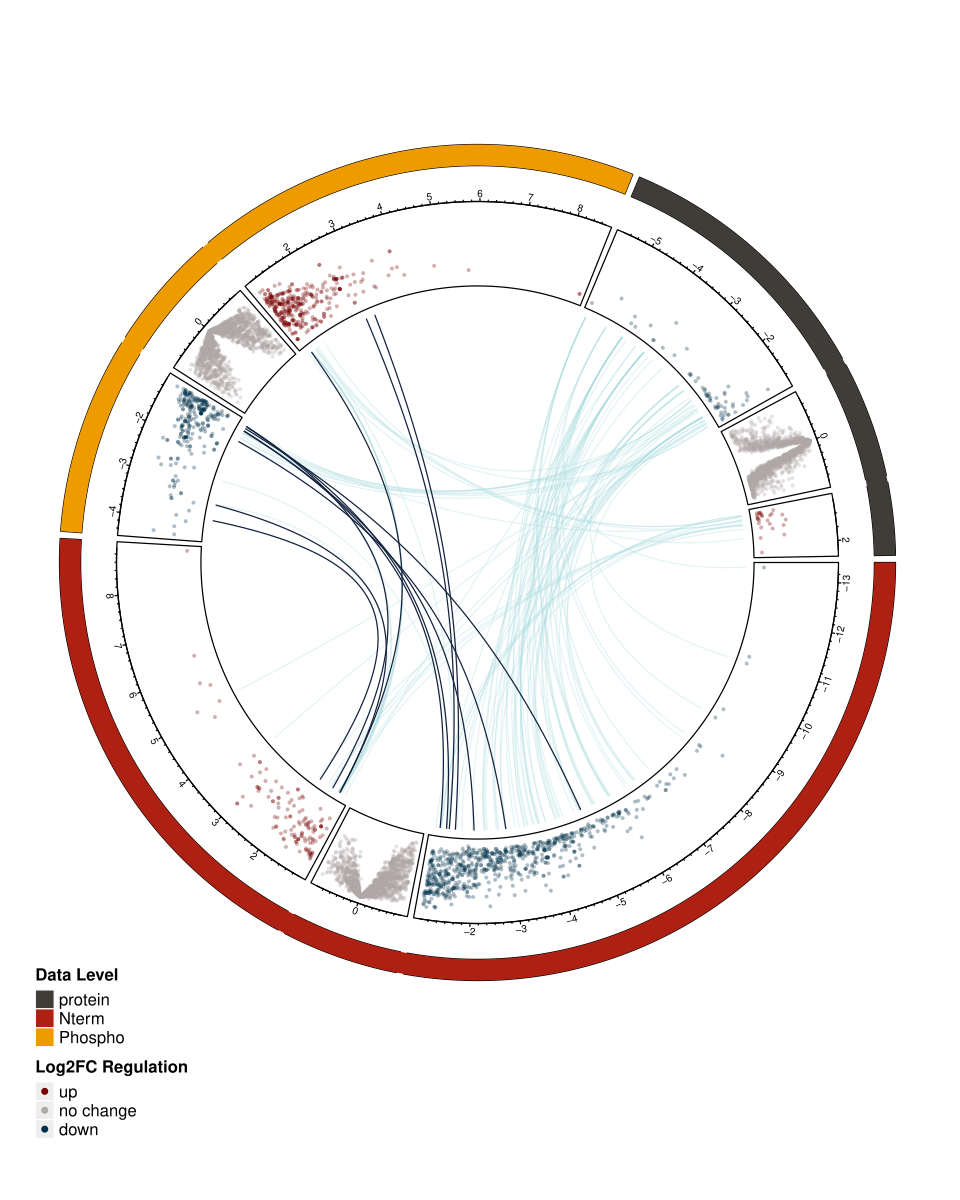
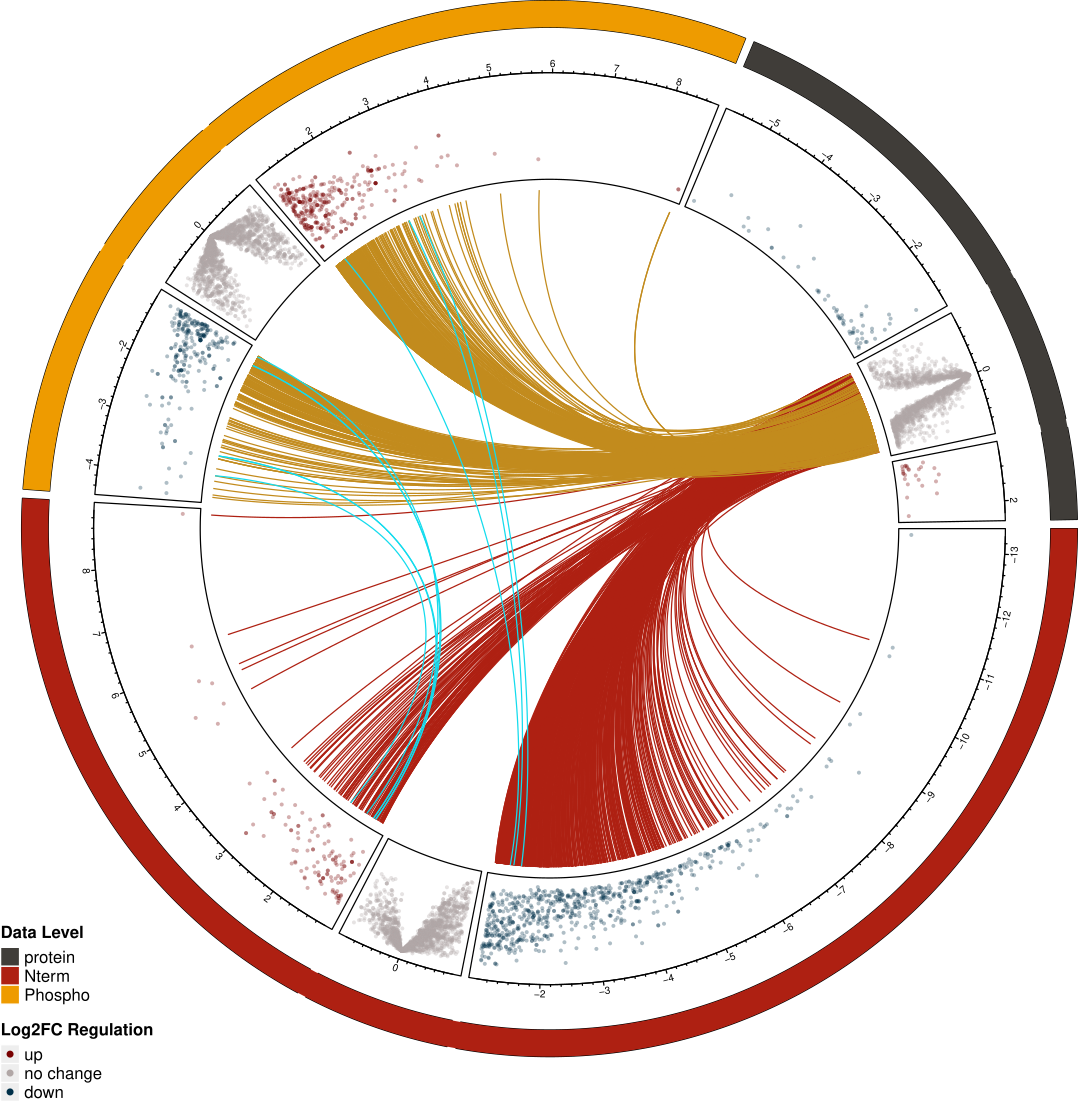
tutorial updates and bug fixes

diff --git a/app/mds/summaryVisuals.md b/app/mds/summaryVisuals.md
@@ -1,12 +1,12 @@
 [Add Cover Figure (landscape format)]
 
-The last step in the workflow entails visualizing quantitative differences between samples and conditions, first at the dataset level using dimensionality reduction and clustering approaches and then at the level of individual proteins, PTMs, termini and their relationships.
+The last step in the workflow entails visualizing quantitative differences between samples and conditions, first at the dataset level using dimensionality reduction and clustering approaches, and then at the level of individual proteins, PTMs, termini and their relationships.
 
 ### 1. Dimensional Reduction
-Dimensional reduction is a frequently used data analysis step for high-dimensional data. Dimensional reduction can be done to all features or for a subset to denoise and simplify the high-dimensional data. SQuAPP allows for the subset selection in the dimensional reduction to take all features if no statistical testing is done prior. More subset options will be available depending on the statistical testing if statistical testing has been completed for the selected data level. (e.g. all significant, up, or down-regulated subsets becomes available)
+Dimensional reduction is a frequently used data analysis step for high-dimensional data **(1)**. Dimensional reduction can be done to all features or for a subset to denoise and simplify the high-dimensional data. `SQuAPP can perform dimensionality reduction on all features in datasets or a selected subset of features. More subset options will be available in the statistical testing that has been completed for the selected data level. (e.g. in the provided example dataset, this could be all significant, only up, or only down-regulated subsets for a comparison between Normal and B-ALL data).
 
 
-SQuAPP offers three commonly used methods to reduce dimensions in high-dimensional data:
+`SQuAPP` offers three commonly used methods to reduce dimensions in high-dimensional data:
 
 - `PCA`: “principal component analysis” implemented using `stats::prcomp()` function.
 - `t-SNE`: “t-distributed stochastic neighbour embedding” is implemented using `Rtsne::Rtsne()` function.
@@ -14,13 +14,13 @@ SQuAPP offers three commonly used methods to reduce dimensions in high-dimension
 - `UMAP`:  “Uniform manifold approximation and projection” is implemented using `umap::umap()` function.
 
 
-SQuAPP produces a customizable scatter plot with two dimensions based on the method used. You can include a colour and/or a shape variable from the metadata in the main configuration box. Aside from the colour and shape, further customization of these plots can be done by opening the plot settings menu located on the top left corner of the plot. In the plot settings menu, you can change more aspects of the plot for downloading for reference.
+`SQuAPP` produces a customizable scatter plot with two dimensions based on the method used. You can include a colour and/or a shape variable from the metadata in the main configuration box. Aside from the colour and shape, further customization of these plots can be done by opening the plot settings menu located on the top left corner of the plot. In the plot settings menu, you can change more aspects of the plot for downloading or for reference.
 
 <p align="center">
   <img src="../../png/034_DimensionalReductionMethods.png" width="80%">
 </p>
 
-SQuAPP also provides the reduced table in the bottom box. The reduced table results from a dimensional reduction method merged with metadata to create a reference for people who would like to access the dataset used to produce the data above.
+`SQuAPP` also provides the reduced table in the bottom box. The reduced table results from a dimensional reduction method merged with metadata to create a reference for users who would like to access the dataset used to produce the reduced plot (see the plot in the figure below).
 
 <p align="center">
   <img src="../../png/035_DimensionalReductionDone.png" width="80%">
@@ -29,11 +29,11 @@ SQuAPP also provides the reduced table in the bottom box. The reduced table resu
 ---
 
 ### 2. Clustering
-Because clustering is a subjective statistical analysis, different clustering methods can be appropriate for different datasets. This section provides clustering as unsupervised learning, implementing clustering on all or a subset of features in the selected data level. SQuAPP allows the subset selection in the clustering to take all features if no statistical testing is done prior. More subset options will be available depending on the statistical testing if statistical testing has been completed for the selected data level. (e.g. all significant, up, or down-regulated subsets become available).
+Since clustering is a subjective statistical analysis, different clustering methods can be appropriate for different datasets. This section provides clustering as unsupervised learning, implementing clustering on all or a subset of features in the selected data level. `SQuAPP` allows the subset selection in the clustering to take all features if no statistical testing is done prior. More subset options will be available depending on the statistical tests completed for the selected data level. (e.g. all significant, up, or down-regulated subsets become available).
 
 > **Note:** Rows with NA values are not handled in this section, and they are implicitly dropped.
 
-SQuAPP offers four distinct clustering methods implemented from various packages in R:
+`SQuAPP` offers four distinct clustering methods implemented from various packages in R:
 
 - `Hierarchical Clustering`: *hierarchical clustering is implemented from `factoextra::hcut()`*
 - `K-means Clustering`: *k-means clustering is implemented from `stats::kmeans()`*
@@ -44,25 +44,25 @@ SQuAPP offers four distinct clustering methods implemented from various packages
   <img src="../../png/036_ClusteringInitial.png" width="80%">
 </p>
 
-SQuAPP provides two-step to get clustering results, running a preview and running actually clustering with decided parameters. In the first step, SQuAPP implements three cluster testing visualizations to select a number of clusters for clustering analysis. SQuAPP also gives an option to choose the maximum number of clusters to test in the preview step. The tests implemented to find the optimal number of clusters are implemented using the `factoextra::nbclust()` function:
+`SQuAPP` requires two steps to get clustering results - running a preview of the clustering and then the actual clustering with selected parameters. In the first step, `SQuAPP` implements three cluster testing visualizations to guide the user in determining the optimum number of clusters for the analysis. `SQuAPP` also gives an option to choose the maximum number of clusters to test in the preview step. The tests implemented to find the optimal number of clusters are implemented using the `factoextra::nbclust()` function:
 
 
-- `Average Silhouette`: Calculates average silhouette Si [REF] from silhouette plots for each tested cluster number and plots it. *Measures the quality of a clustering.* **Higher the average silhouette width is better.**
-- `Within Sum of Squares`: (aka. Elbow Method) Calculates total sum of squares [REF] for each tested cluster number and plots it. *Measures the compactness of the clustering*. **The smaller is better.**
-- `Gap Statistics`: Calculates the gap statistics [REF] for each tested cluster. *Compares the total within intra-cluster variation.* **Large gap statistic is better.**
+- `Average Silhouette`: Calculates average silhouette Si **(2)** from silhouette plots for each tested cluster number and plots it. *Measures the clustering quality.* **Higher the average silhouette width is better.**
+- `Within Sum of Squares`: (aka. Elbow Method) Calculates the total sum of squares for each tested cluster number and plots it. *Measures the compactness of the clustering*. **The smaller is better. **
+- `Gap Statistics`: Calculates the gap statistics **(3)** for each tested cluster. *Compares the total within intra-cluster variation.* *Large gap statistic is better.*
 
 <p align="center">
   <img src="../../png/037_ClusteringTestMethods.png" width="80%">
 </p>
 
-When the clustering performance tests are created and reviewed by the user, a slider selector will become available to select for number of cluster to be used in clustering analysis. SQuAPP also provides further configuration of the clustering methods to be used with different methods for more advanced control over the clustering analysis. When the number of clusters selection and further configuration is completed you can click “Run Clustering” button to run the clustering to create result plots:
+When the user creates and reviews the clustering performance tests, a slider selector will become available to select a number of clusters used in clustering analysis. `SQuAPP` also provides further configuration of the clustering approaches for the different methods to enable more advanced selections for each clustering analysis. When the number of clusters selection and further configuration is completed, click the “Run Clustering” button to run the clustering and create result plots:
 
 -  `Cluster PCA`: plots the clustering on a two dimensional PCA, using `factoextra::fviz_cluster()` function
 -  `Cluster Silhouette`: plots silhouette of the created cluster using `factoextra::fviz_silhouette()` function
--  `Cluster Dendogram`: plots a dendogram using `factoextra::fviz_dend()` function
+-  `Cluster Dendogram`: plots a dendrogram using `factoextra::fviz_dend()` function
 	- **Only available when using hierarchical clustering and hierarchical k-means clustering**
 -  `Cluster Membership Plot`: plots membership values from fuzzy clustering on a matrix.
-  - **Only available when using fuzzy clustering**
+	- **Only available when using fuzzy clustering**
 
   <p align="center">
     <img src="../../png/038_ClusteringDone.png" width="80%">
@@ -71,9 +71,9 @@ When the clustering performance tests are created and reviewed by the user, a sl
 ---
 
 ### 3. Feature Comparison
-SQuAPP gives an option to compare a small subset of features directly with their intensities in a single intensity plot and a correlation matrix plot if desired. SQuAPP accepts three methods to select features for this section; manual input of features separated by a comma, uploading a file with a set of features separated by a new line, and finally directly selecting from a data table that can be created in the feature comparison section.
+`SQuAPP` gives an option to compare a small subset of features directly with their intensities in a single intensity plot and a correlation matrix plot if desired. `SQuAPP` accepts three methods to select features for this section; manual input of features separated by a comma, uploading a file with a set of features separated by a new line, and finally directly selecting from a data table that can be created in the feature comparison section.
 
-Suppose the “Select from Statistical Results” option is selected. In that case, SQuAPP allows a data table created for selecting features directly from the table when selecting SQuAPP prompts for choosing a subset view based on all features or significant only features if the data’s statistical testing step is run prior.
+Suppose the “Select from Statistical Results” option is selected. In this case, `SQuAPP` allows a data table created for selecting features directly from the table when selecting `SQuAPP` prompts for choosing a subset view based on all features or significant only features if the data’s statistical testing step is run prior.
 
 When the “Preview Features” button is clicked after the finished selection will give a preview of the data based on the selection. The preview data table for selected features will be based on the statistical result table if the statistical testing has been done for the data level prior. If the statistical testing for the data is not run, the preview data table will bring up the quantitative data table for the selected data level.
 
@@ -82,13 +82,13 @@ When the “Preview Features” button is clicked after the finished selection w
   <img src="../../png/039_FeatureComparisonPreview.png" width="80%">
 </p>
 
-To plot the intensity plot and correlation matrix, at least one row in the preview data needs to be selected. After the rows *up to twelve* are selected, and the configuration of the plot box is completed, you can click on the “Plot Comparisons” button to create comparison visualizations. If changes are done on the “Plot Axis Configuration,” you can update the plot by clicking the “Plot Comparisons” button to apply changes to the plot. If you want to update the feature selection, you must re-create the “Preview Selected Features” table to re-select features to plot.
+To generate the intensity plot and correlation matrix, at least one row in the preview data needs to be selected. After the rows *up to twelve* are selected and the configuration of the plot box is completed, click on the “Plot Comparisons” button to create comparison visualizations. If changes are done on the “Plot Axis Configuration,” you can update the plot by clicking the “Plot Comparisons” button to apply changes to the plot. If you want to update the feature selection, you must re-create the “Preview Selected Features” table to re-select features to plot.
 
 <p align="center">
   <img src="../../png/040_FeatureComparisonIntensityPlot.png" width="80%">
 </p>
 
-The “Plot Axis Configuration” box provides options to add different variables to the intensity plot, and they can be selected as “colour,” “shape,” or “size.” The “Plot Axis Configuration” box also provides simple options for the correlation matrix plot, such as the selection correlation method and if you want to plot a simple or detailed correlation matrix.
+The “Plot Axis Configuration” box provides options to add different variables to the intensity plot, and they can be selected as “colour,” “shape,” or “size.” The “Plot Axis Configuration” box also provides simple options for the correlation matrix plot, such as selecting a correlation method and if you want to plot a simple or detailed correlation matrix.
 
 <p align="center">
   <img src="../../png/041_FeatureComparisonCorrelationPlot.png" width="80%">
@@ -97,15 +97,15 @@ The “Plot Axis Configuration” box provides options to add different variable
 ---
 
 ### 4. Protein Domain
-> **For this section requires at least one of the peptide, termini, or ptm data levels to be present.**
+> **This section requires at least one of the peptide, termini, or ptm datasets to be uploaded and selected in the data selection input.**
 
-This section enables an in-depth inspection of individual features on their parent protein. SQuAPP’s hybrid protein domain plot brings the protein domain visualization produced by the `drawProteins` package [REF] and intensity-based lollipop plot of matching peptide, termini, and ptm level data into a single plot.
+This section enables an in-depth inspection of individual features on a specific protein. `SQuAPP`’s hybrid protein domain plot brings the protein domain visualization produced by the `drawProteins` package **(4)** and intensity-based lollipop plot of matching peptide, termini, and ptm level data into a single plot.
 
 <p align="center">
   <img src="../../png/042_ProteinDomainPlot.png" width="80%">
 </p>
 
-To set up the SQuAPP’s hybrid plot you need to select which levels of data to include and a method to select a protein to the plot. A protein for plotting can be selected from a preview table as done in the “Feature Comparisons” section or manually put into a single UniProt protein accession identifier.    
+To set up `SQuAPP`’s hybrid plot, you need to select which datasets to include and a method to choose a protein to the plot. To select a protein to visualize, click to highlight the protein entry in the preview table or manually provide the protein’s single Uniprot protein accession identifier.    
 
 <p align="center">
   <img src="../../png/043_ProteinDomainExample.png" width="80%">
@@ -116,22 +116,47 @@ To set up the SQuAPP’s hybrid plot you need to select which levels of data to 
 ### 5. Circular Network Summary
 > **This section requires at least 2 data levels to be present. Statistical testing on datasets to include should be conducted in the statistical testing section.**
 
-SQuAPP’s circular network summary plot provides a multi-level data summary view and is implemented using the `circlize` package [REF.]
+`SQuAPP`’s circular network summary plot provides a multi-level data summary view and is implemented using the `circlize` package **(5)**.
 
 <p align="center">
   <img src="../../png/044_CircularNetworkCompletePlot.png" width="80%">
 </p>
 
-SQuAPP creates a circular network summary plot in two steps. First, SQuAPP creates concatenated data from selected levels of data to include after the “Combine Datasets” button is clicked. In the concatenated data, features that do not match at least one other data level are dropped. **Processing the concatenated data can take up to 5seconds depending on the size of data.**
+`SQuAPP` creates a circular network summary plot in two steps. First, when the “Combine Datasets” button is clicked, `SQuAPP` creates and includes concatenated data from the selected data levels. While creating the concatenated data, SQuAPP applies a simple pre-filtering to eliminate features that don’t make a connection. For instance, a feature from termini data needs to be matched to a protein, peptide, or ptm within the five amino-acid range to establish a connection. If the feature doesn’t connect to any other datasets in any way, then that feature is dropped in the pre-filtering when making the concatenated data. **Processing the concatenated data can take up to 5seconds depending on the size of data.**
 
 <p align="center">
   <img src="../../png/045_CircularNetworksInitial.png" width="80%">
 </p>
 
-After the concatenated data is processed and created, the “Setup Filtering for Connections” box will become visible, the second step in creating a circular network summary plot. The filtration step essentially filters the connections that SQuAPP will create.  If the filtration switches for data levels with statistical results are switched off, all available data in the concatenated data will be kept. If you wish to filter individual levels you need to switch to filter. There are two options for applying filtering to a data-based log fold change threshold or adjusted p-value threshold set in the statistical results. When the selection for filtering is made, click the “Plot Circular Network” for creating the plot with all connections defaulting to thin gray lines.
+The second step involves creating a circular network summary plot. After the concatenated data is processed and created, the “Setup Filtering for Connections” box will become visible. The filtration step essentially filters the connections that `SQuAPP` will show on the circular plot. There are two options to create the filtering to create the circular plot. The first option is to select a pre-defined filtering scenario from the drop-down menu. The pre-defined scenarios are a quick way to set up the filtering for rapid testing of interesting scenarios.
+
+- `Reverse regulated modifications on unchanged protein`: Only selecting connections that start with unchanged proteins to regulated termini or ptm as well as connections that begin with up-regulated termini to down-regulated ptm or wise versa.
+- `Consistent up-regulation of all data levels`: Only selecting connections that begin with up-regulated features to other up-regulated features.
+- `Consistent down-regulation of all data levels`: Only selecting connections that begin with down-regulated features to other down-regulated features.
+- `Reverse regulated peptide and protein`: Only selecting connections that have reverse regulated protein to peptide connection and regulated peptide to regulated termini, ptm connections.
+
+> *We will be adding more pre-defined filtering scenarios in the future.*
+
+The second option, custom filtration, can be accessed when the “Do you want custom filtering?” switch is turned on.  If the filtration switches for data levels with statistical results are switched off, all available data in the concatenated data will be kept. If you wish to filter individual levels, you need to switch to filter. Filtering can be applied to data based on the log fold change or adjusted p-value threshold set in the statistical analysis step. After the selection for filtering is complete, clicking on the “Plot Circular Network” will generate a plot with all connections defaulting to thin gray lines.
 
 <p align="center">
   <img src="../../png/046_CircularNetworksDefaultPlot.png" width="80%">
 </p>
 
-To highlight some of the connection lines from the circular network summary plot, you must select rows from the table created in the “Combined Connections Data Summary” tab. When you select entries from the table, you can click on the “Plot Circular Network” button to re-plot the initial plot with your selected entries added as thicker dark connections.
+You can switch on the “Do you want to assign colours to connections?” option, If you would like to assign colours to connection groups (e.g. protein-peptide, protein-termini, etc.) Each group can be changed in the colour picker. If you want to change the colour, you need to update the plot by clicking “Plot Circular Plot.”
+
+<p align="center">
+  <img src="../../png/047_CircularNetworksColored.png" width="80%">
+</p>
+
+Apart from assigning colours to a group of connections, SQuAPP also allows you to highlight some of the connection lines from the circular network summary plot. You must select rows from the table created in the “Combined Connections Data Summary” tab to highlight several connections. When you select entries from the table, you can click on the “Plot Circular Network” button to re-plot the initial plot with your selected entries added as thicker dark connections.
+
+---
+
+**Bibliography**
+
+1. 	Ivosev G, Burton L, Bonner R. Dimensionality reduction and visualization in principal component analysis. Anal Chem. 2008 Jul 1;80(13):4933–44.
+2. 	Rousseeuw PJ. Silhouettes: A graphical aid to the interpretation and validation of cluster analysis. Journal of Computational and Applied Mathematics. 1987 Nov;20:53–65.
+3. 	Tibshirani R, Walther G, Hastie T. Estimating the number of clusters in a data set via the gap statistic. J Royal Statistical Soc B. 2001 May;63(2):411–23.
+4. 	Brennan P. drawProteins: a Bioconductor/R package for reproducible and programmatic generation of protein schematics. [version 1; peer review: 2 approved]. F1000Res. 2018 Jul 18;7:1105.
+5. 	Gu Z, Gu L, Eils R, Schlesner M, Brors B. circlize Implements and enhances circular visualization in R. Bioinformatics. 2014 Oct;30(19):2811–2.

diff --git a/app/mds/statInfer.md b/app/mds/statInfer.md
@@ -1,41 +1,38 @@
 [Add Cover Figure (landscape format)]
 
-Once the data has been processed, statistically significant differences between conditions can be determined. This set of proteins, termini, or PTM sites, can then be used to gain deeper insights in the next step of summary visualizations.
+Once the data has been processed, statistically significant differences between conditions can be determined. The next step of summary visualizations is useful to gain deeper insights on the set(s) of proteins, termini, or PTM sites within and across experimental conditions.
 
 ### 1. Statistical Testing
-SQuAPP employs the linear model from the `limma` package [REF] for statistical testing since it is one of the most flexible and popular methods employed in the field of proteomics. (*However, more methods are under development to provide different flavours for users who want to use other methods.*) As of version 0.25, the reported p-values adjusted according to the Bonferroni-Hochberg method for both tests, with more options are going to be added soon. SQuAPP adds *“weighting”* and *“blocking”* options to provide additional functionality when employing statistical testing on your data.
+`SQuAPP` employs the linear model from the `limma` package **(1)** for statistical testing, one of the most flexible and popular methods employed in proteomics. (*However, more methods are under development to provide different options for users.*) As of version 0.25, the reported p-values are adjusted according to the Bonferroni-Hochberg (FDR) method as default. More multiple testing corrections methods are available through the `p.adjust()` function from the `stats` package, and they can be selected from the dropdown menu.  
 
-- **Blocking**: Blocking is a technique for dealing with nuisance factors that have some effect on the response but are of no interest. Hence the influence on the response variable needs to be minimized or ruled out. Currently, the blocking factor can be a 2-level factor only.
-- **Weighting**: SQuAPP introduced a function that allows the user to put different weights on original/imputed values in the testing differential abundance. This is particularly relevant in scenarios where a PTM or terminus is genuinely absent in one condition but not consistently detected in the other condition. By giving a low weight to imputed values, the measured values become the determining factor when calculating the mean and variance in conditions where many but not all samples have a measurement. At the same time, in conditions where a feature has not been measured, imputed values dominate regardless of their low weight.
+`SQuAPP` implements the weighting option, originally implemented in limma to control quality weights in the microarray data analysis **(2)**. `SQuAPP` can place different weights on original/imputed values when the weighting option is selected with testing for differential abundance. This is particularly relevant in scenarios where a PTM or terminus is genuinely absent in one condition but not consistently detected in the other condition. By giving a low weight to imputed values, the measured values become the determining factor when calculating the mean and variance in conditions where many but not all samples have a measurement. At the same time, in conditions where a feature has not been measured, imputed values dominate regardless of their low weight.
 
 <p align="center">
   <img src="../../png/029_StatisticalTestingInitial.png" width="80%">
 </p>
 
-After selecting the data level for statistical testing, you can select a grouping factor to apply the linear model with unique groups. SQuAPP provides sliders to select adjusted p-value and fold-change thresholds in the testing. If you would like to use weighting or blocking you can switch on those options to access their specific options. When the weighting option is activated, SQuAPP asks you to select a weighting number to assign so the effect of the imputed values is multiplied by that weight.  When the blocking option is activated, SQuAPP asks you to select a grouping factor and only 2 groups to apply in the statistical testing. The blocking option replaces the traditional volcano plot with a block volcano plot, using log2 fold changes of blocks one and two on the x and y axis.
+After selecting the data level for statistical testing, you can select a grouping factor to apply the linear model with unique groups. `SQuAPP` provides sliders to select adjusted p-value and fold-change thresholds. Choose either weighting or blocking options to access use and access the preferences for either selection. If the weighting option is activated, `SQuAPP` asks you to select a weighting number to assign, so the effect of the imputed values is multiplied by that weight.
 
-<p align="center">
-  <img src="../../png/030_StatisticalTestingBlockingVolcano.png" width="80%">
-</p>
-
-When all the configuration for testing is done you can click the “Run Statistical Analysis” button to run the analysis to produce plots and result datasets. The visualizations are on the top box and the data tables are on the bottom box. All the plots and data tables can be downloaded individually for reference.
+When all the configuration for testing is done, you can click the “Run Statistical Analysis” button to initiate the analysis, produce plots and result datasets. The visualizations are on the top box, and the data tables are on the bottom. All the plots and data tables can be downloaded individually for reference.
 
 <p align="center">
   <img src="../../png/031_StatisticalTestingDone.png" width="80%">
 </p>
 
-SQuAPP automatically saves and attaches the statistical result to the selected data level. If you would like to change or update your statistical test changing the parameters and running the test by clicking the button will update the data.
+`SQuAPP` automatically saves and attaches the statistical result table to the original data level for the analysis. If there is a need to change or update your statistical test with a different configuration, regardless of changes in this section or previous sections, re-running the test by clicking the button will update the statistical result data.
 
 ---
 
 ### 2. Enrichment Analysis
-Another essential step in a data analysis workflow is to create a list of interesting biological matches from the proteomic data. SQuAPP employs the help of the `gprofiler2` package, which is an API for the web-based `g:Profiler` tool [REF]. (*However, more methods using different tools are under development to provide additional flavours.*)
+Another essential step in a data analysis workflow is to create a list of interesting biological matches from the proteomic data. `SQuAPP` employs the help of the `gprofiler2` package, which is an API for the web-based `g:Profiler` tool **(3)**.
+
+> (*Additional methods using other Enrichment Analysis software are under development and provide users with more alternatives.*)
 
 <p align="center">
   <img src="../../png/032_EnrichmentAnalysisInitial.png" width="80%">
 </p>
 
-SQuAPP **requires statistical testing to be run** for the selected data level to run the enrichment analysis. SQuAPP allows you to configure the following when running the analysis:
+`SQuAPP` **requires statistical testing to be run** for the selected data level to run the enrichment analysis. `SQuAPP` allows you to configure the following when running the analysis:
 
 - *p-value threshold selection*
 - *multiple testing correction method selection*
@@ -56,4 +53,8 @@ SQuAPP **requires statistical testing to be run** for the selected data level to
 
 ---
 
-### References
+**Bibliography**
+
+1. 	Ritchie ME, Phipson B, Wu D, Hu Y, Law CW, Shi W, et al. limma powers differential expression analyses for RNA-sequencing and microarray studies. Nucleic Acids Res. 2015 Apr 20;43(7):e47.
+2. 	Ritchie ME, Diyagama D, Neilson J, van Laar R, Dobrovic A, Holloway A, et al. Empirical array quality weights in the analysis of microarray data. BMC Bioinformatics. 2006 May 19;7:261.
+3. 	Reimand J, Isserlin R, Voisin V, Kucera M, Tannus-Lopes C, Rostamianfar A, et al. Pathway enrichment analysis and visualization of omics data using g:Profiler, GSEA, Cytoscape and EnrichmentMap. Nat Protoc. 2019 Feb;14(2):482–517.

diff --git a/app/mds/home.md b/app/mds/home.md
@@ -51,9 +51,13 @@ Or you can directly submit an issue on the [GitHub page](https://github.com/Lang
 ---
 
 #### Change Log
+- **Version 0.27 - December 13th 2021**:
+	- Various bug fixes and ui updates
+	- Blocking is disabled for now
+	- Generate a report section is initialized
 - **Version 0.26 - December 8th 2021**:
 	- Various bug fixes
-	- Various UI updates
+	- Various ui updates
 	- More compact protein domain
 	- More filteration options for circular network plot
 	- Additional combinations to select in circular network plot
